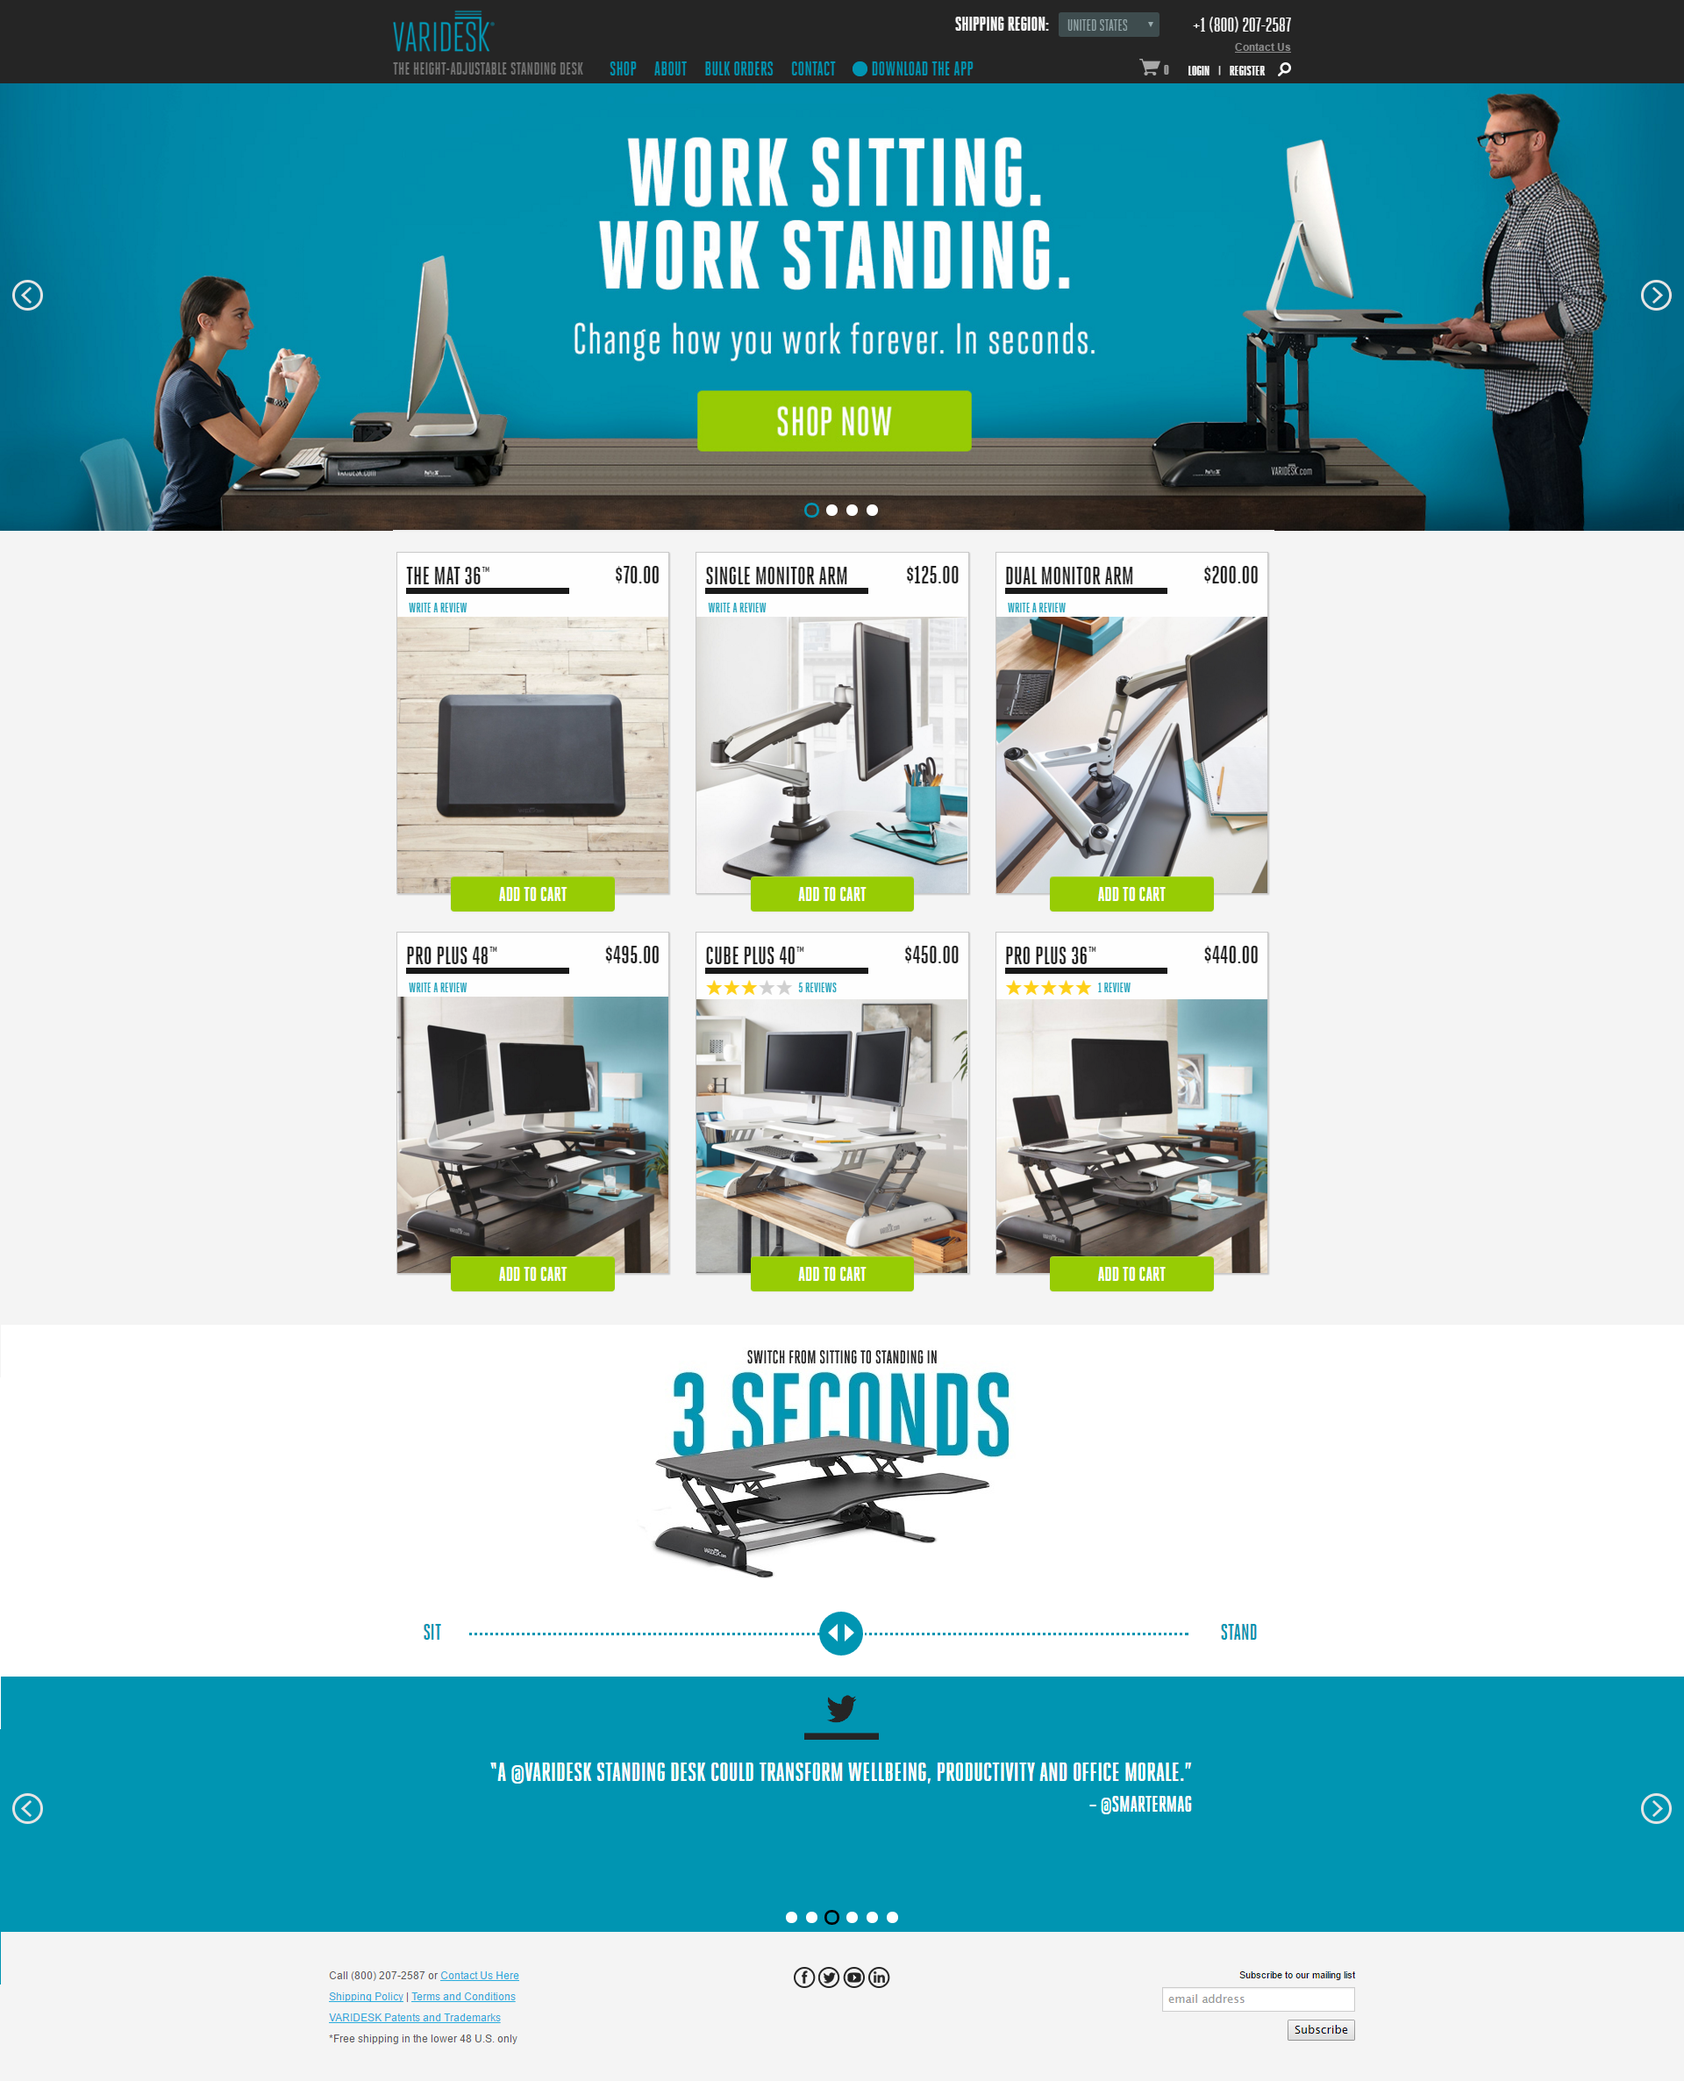
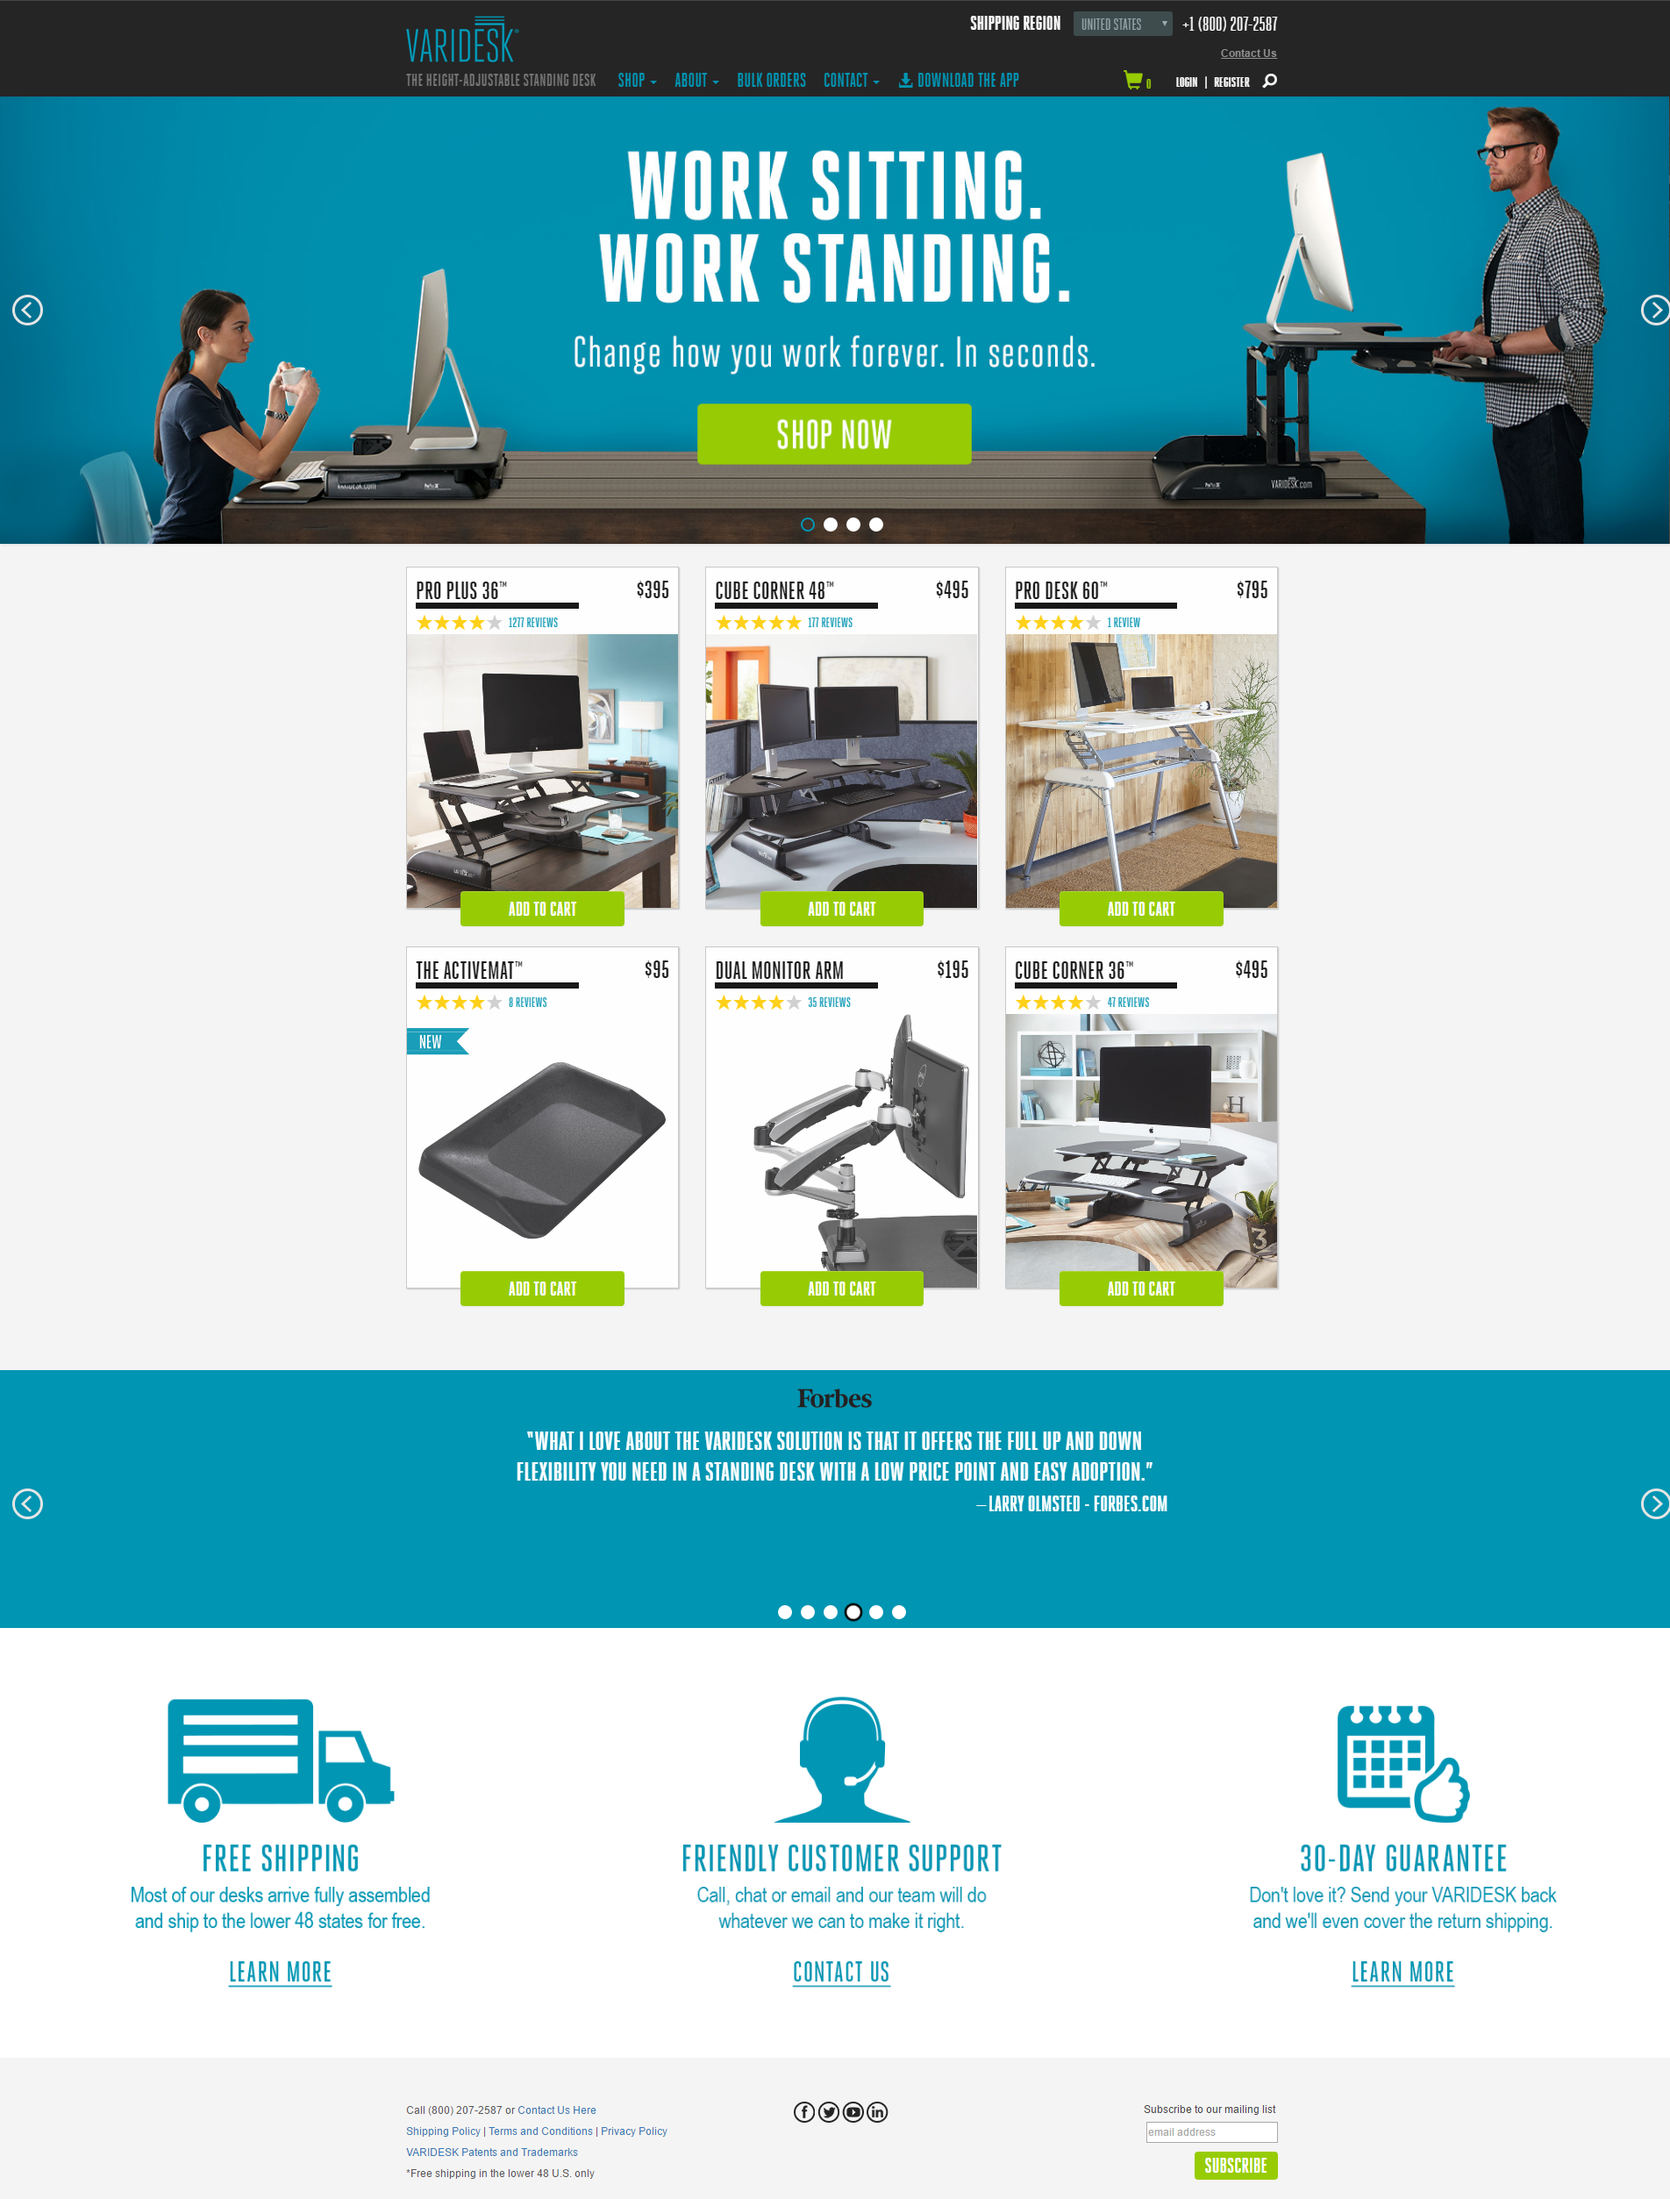
Added assets and description for Varidesk project
Added assets and description for Varidesk project

diff --git a/index.html b/index.html
@@ -253,8 +253,14 @@
                   <a href="img/VAR1.png" target="_blank">
                     <img src="img/VAR1.png" width="80px">
                   </a>
+                  <a href="img/VAR2.png" target="_blank">
+                    <img src="img/VAR2.png" width="80px">
+                  </a>
+                  <a href="img/VAR3.png" target="_blank">
+                    <img src="img/VAR3.png" width="80px">
+                  </a>
                 </center>
-                <p>The goal of this project was to recreate the current website in the Sitefinity CMS environment. This resulted in a complete rewerite of the websites front-end in order to use the widget, template, and module features of Sitefinity CMS in order to empower the marketing department with the ability to easily create content pages.</p>
+                <p>The goal of this project was to recreate the current website in the Sitefinity CMS environment. This resulted in a complete rewerite of the website's front-end in order to use the widget, template, and module features of Sitefinity CMS in order to empower the marketing department with the ability to easily create content pages. This website was built with gloabl e-commerce in mind supporting 5 languages and 3 regions.</p>
             </div>
           </div>
         </div>
